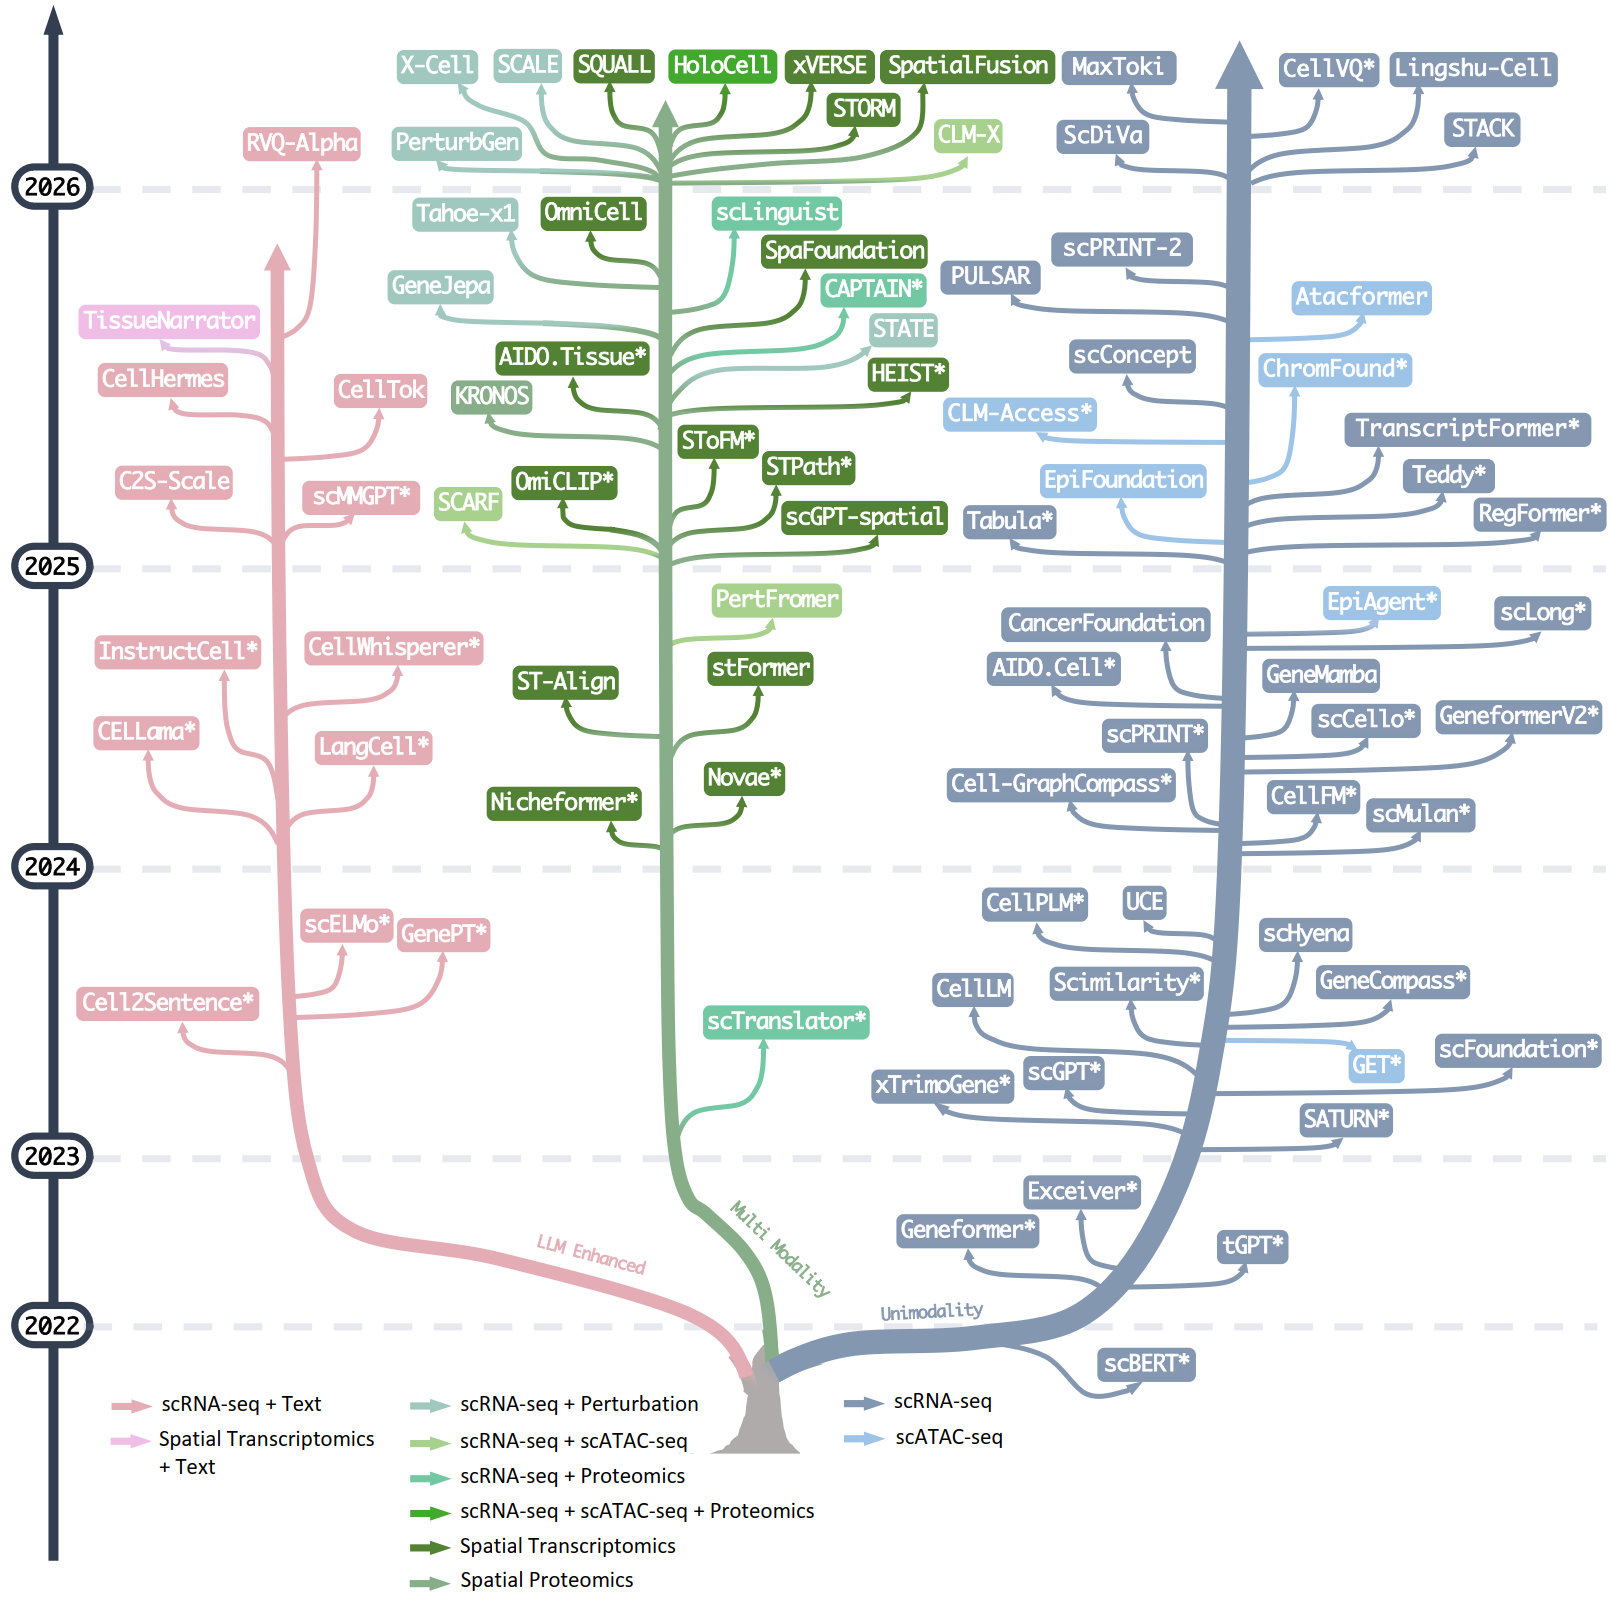
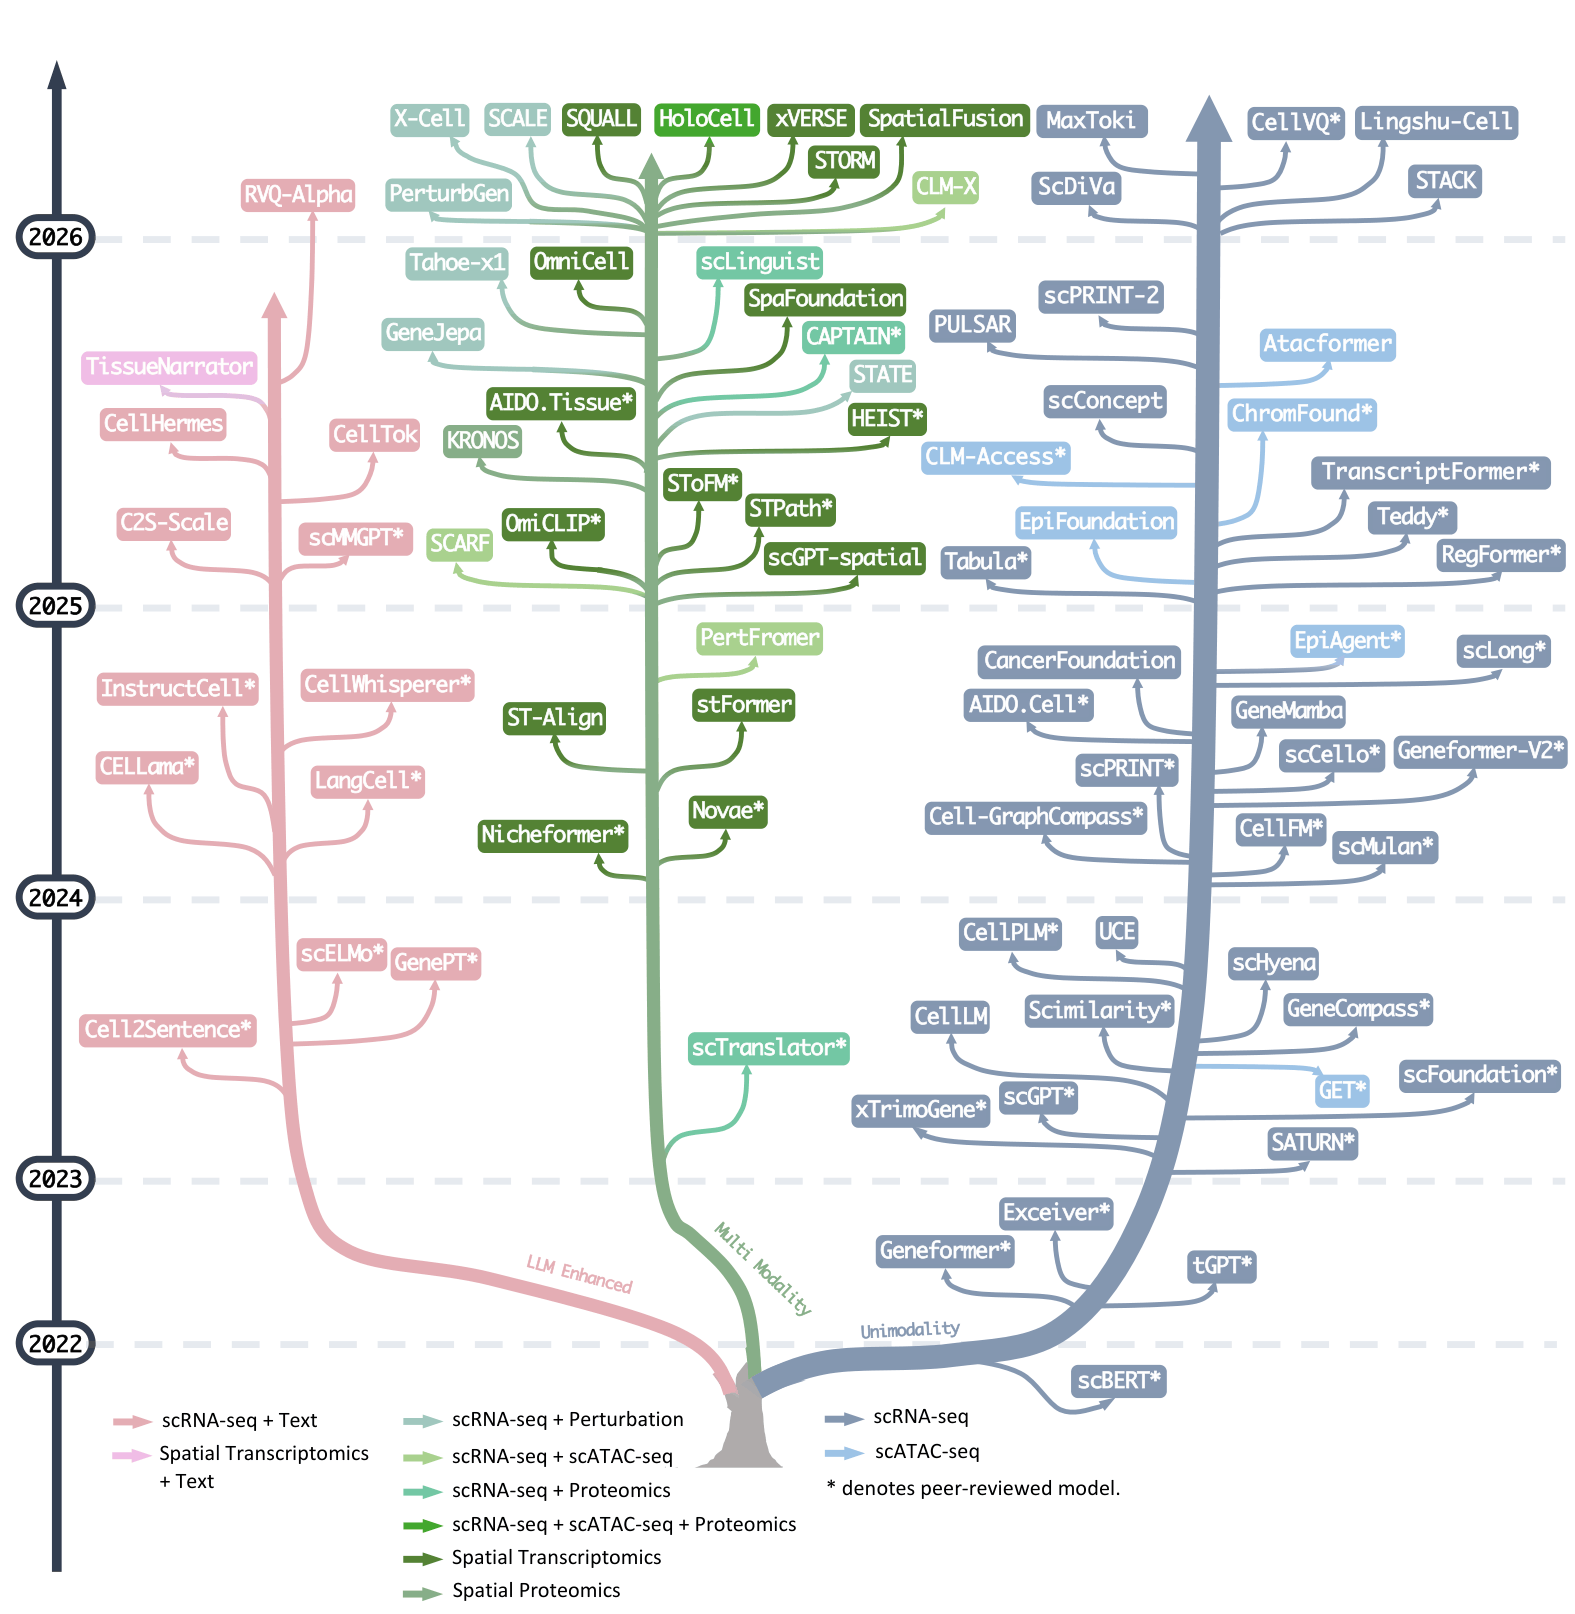
Merge pull request #55 from JasonJiangs/main
update

Pull request: update

diff --git a/README.md b/README.md
@@ -8,7 +8,7 @@
 </p>
 
 <p align="center">
-A curated, continuously updated reading list of <b>foundation-model</b> research for <b>single-cell genomics</b>. The structure follows our review <b><i>"Foundation models in single-cell omics: architectures, applications and challenges"</i></b>: single-cell foundation models are organized into <b>unimodal</b>, <b>multimodal</b>, and <b>LLM-based</b> scFMs, and the surrounding literature is grouped into perturbation modeling, virtual cells, pretraining datasets, benchmarks, infrastructure & agents, and surveys.
+A curated, continuously updated reading list of <b>foundation-model</b> research for <b>single-cell genomics</b>. The structure follows our review <b><i>"The landscape of single-cell foundation models: design principles, applications, and open challenges"</i></b>: single-cell foundation models are organized into <b>unimodal</b>, <b>multimodal</b>, and <b>LLM-based</b> scFMs, and the surrounding literature is grouped into perturbation modeling, virtual cells, pretraining datasets, benchmarks, infrastructure & agents, and surveys.
 </p>
 
 <p align="center">
@@ -264,6 +264,7 @@ Emerging generative training paradigms that recast scFMs as cellular world model
 1. [2024 Cell] **How to build the virtual cell with artificial intelligence: Priorities and opportunities** [[paper]](https://www.cell.com/cell/fulltext/S0092-8674(24)01332-1)
 
 ### Models and frameworks
+1. [2026 bioRxiv] **Towards Autonomous Mechanistic Reasoning in Virtual Cells** [[paper]](https://arxiv.org/abs/2604.11661)
 1. [2026 arXiv] **OCOO-T : A Simple and Scalable Virtual Cell Model for Transcriptional Perturbation Response Prediction** [[paper]](https://arxiv.org/abs/2606.12838v1)
 1. [2026 arXiv] **Cell-JEPA: Latent Representation Learning for Single-Cell Transcriptomics** [[paper]](https://arxiv.org/abs/[phone redacted])
 1. [2025 bioRxiv] **GeneJepa: A Predictive World Model of the Transcriptome** [[paper]](https://www.biorxiv.org/content/10.1101/2025.10.14.682378v1)
@@ -307,6 +308,7 @@ Large-scale atlases, multimodal corpora, and data frameworks used for pretrainin
 Benchmarks, reusability reports, and critical evaluations of single-cell foundation models, plus the science of evaluation and data-privacy considerations.
 
 ### Benchmarks and critical evaluations
+1. [2026 bioRxiv] **Benchmarking gene expression reconstruction from single-cell latent representations** [[paper]](https://www.biorxiv.org/content/[phone redacted]/[phone redacted].731445v1)
 1. [2026 Nature Methods] **Scaling up training dataset size for transcriptomic AI models is much pain with little gain** [[paper]](https://www.nature.com/articles/s41592-026-03119-5)
 1. [2026 Nature Methods] **Evaluating the role of pretraining dataset size and diversity on single-cell foundation model performance** [[paper]](https://www.nature.com/articles/s41592-[phone redacted]-y)
 1. [2026 Nature Biotechnology] **Scoring gene importance by interpreting single-cell foundation models** [[paper]](https://www.nature.com/articles/s41587-[phone redacted])
@@ -420,6 +422,7 @@ Here is the list of surveys and perspectives that are more focused on single-cel
 1. [2025 Bioinformatics] **Decoding Cell Fate: Integrated Experimental and Computational Analysis at the Single-Cell Level** [[paper]](https://academic.oup.com/bioinformatics/article/41/11/btaf603/[phone redacted])
 1. [2025 Quantitative Biology] **A perspective on developing foundation models for analyzing spatial transcriptomic data** [[paper]](https://onlinelibrary.wiley.com/doi/full/10.1002/qub2.70010)
 1. [2025 Genome Biology] **Insights, opportunities, and challenges provided by large cell atlases** [[paper]](https://genomebiology.biomedcentral.com/articles/10.1186/s13059-[phone redacted])
+1. [2024 Quantitative Biology] **Perspectives on benchmarking foundation models for network biology** [[paper]](https://pmc.ncbi.nlm.nih.gov/articles/PMC12806037/)
 1. [2024 Nature Reviews Molecular Cell Biology] **Harnessing the deep learning power of foundation models in single-cell omics** [[paper]](https://www.nature.com/articles/s41580-[phone redacted])
 1. [2024 Nature Methods] **Transformers in single-cell omics: a review and new perspectives** [[paper]](https://www.nature.com/articles/s41592-[phone redacted]-z)
 1. [2024 National Science Review] **General-purpose pre-trained large cellular models for single-cell transcriptomic** [[paper]](https://academic.oup.com/nsr/article/11/11/nwae340/[phone redacted])